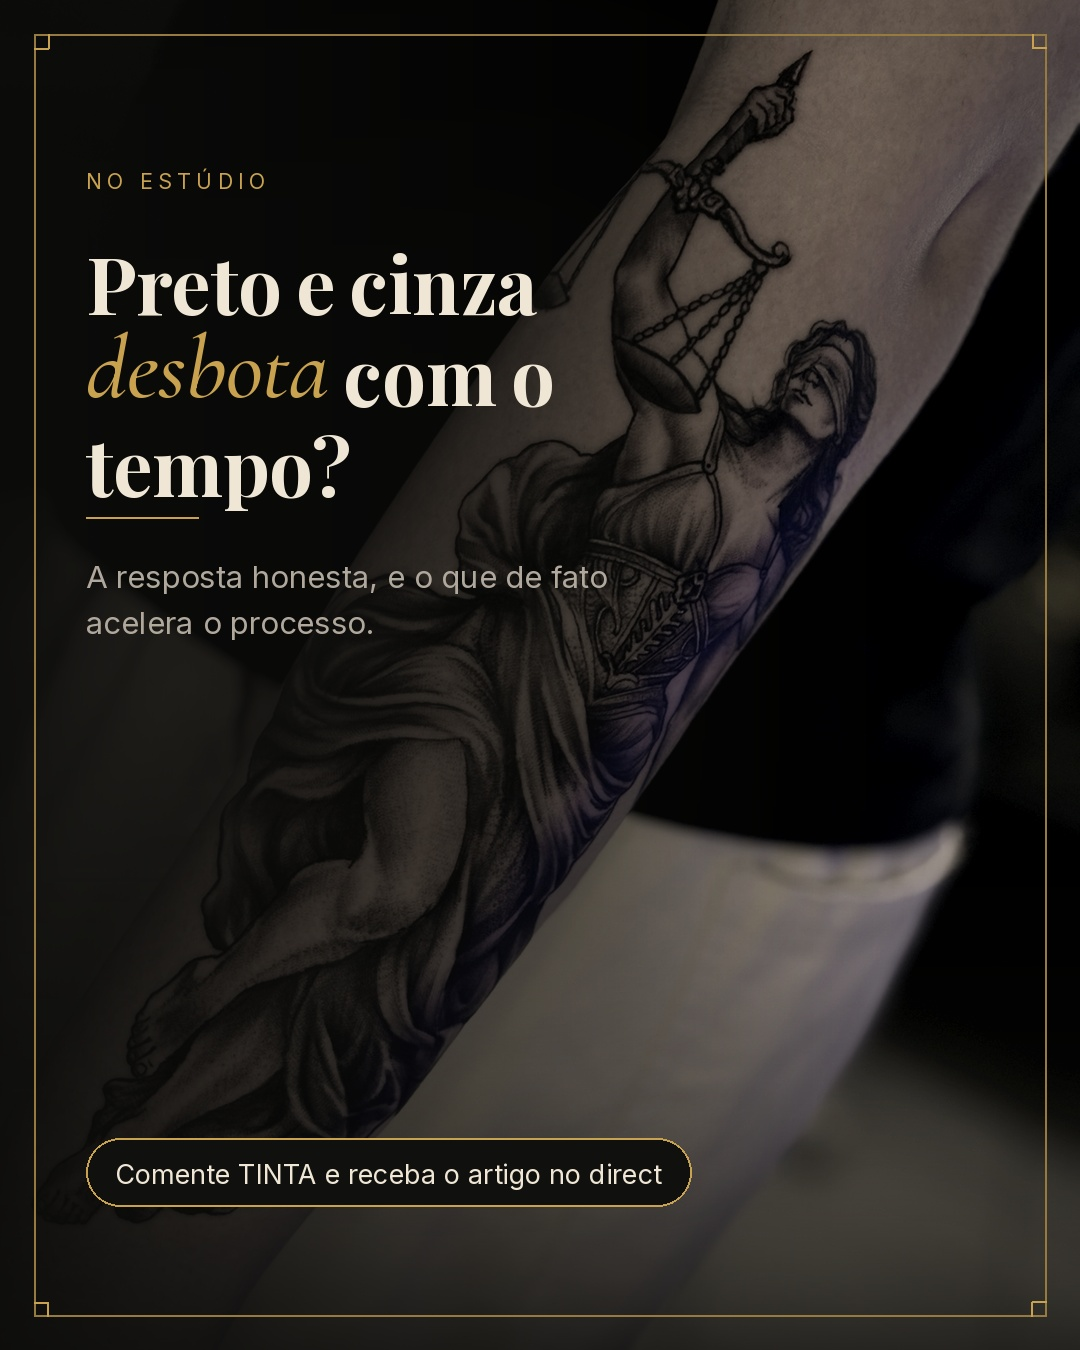
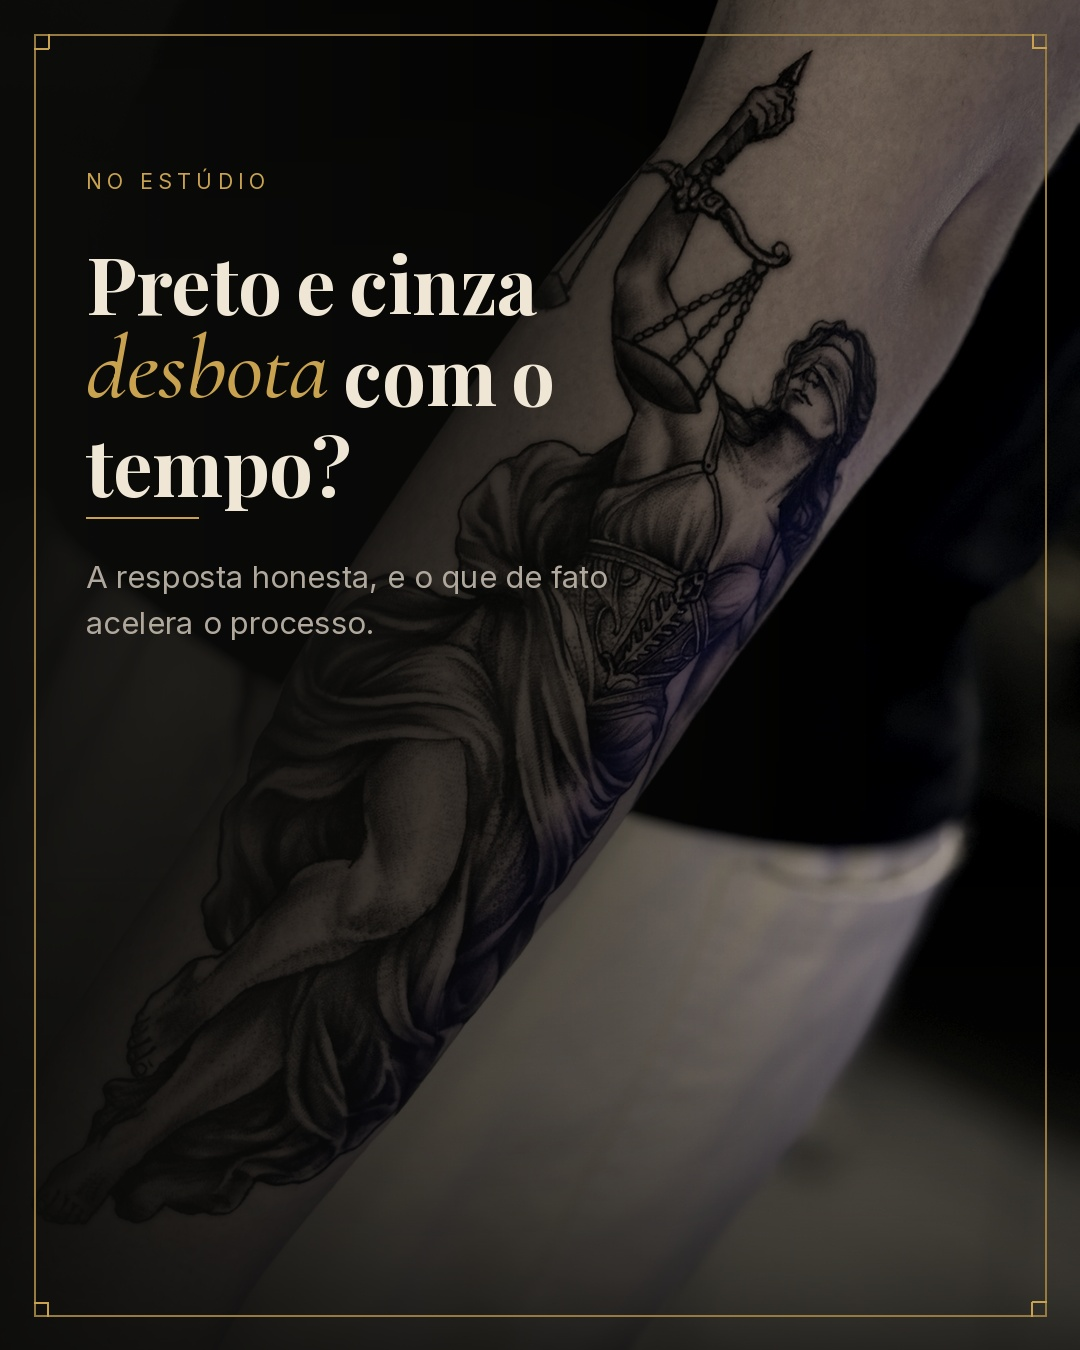
Tira o CTA dos slides e reescreve a legenda do carrossel 01
Pedido do Andre: a pilula de "Comente TINTA" sai das imagens; o CTA
passa a viver so na legenda. Os slides ficam limpos, com moldura,
etiqueta, titulo e texto.

Legenda reescrita como copy de publicacao, nao como resumo: abre com o
gancho que cabe antes do "mais", entrega a substancia do artigo em
quatro blocos curtos e fecha no comment-gate. Sem travessao, sem preco,
sem promessa de resultado, no tom de contexto/marca.md.

Claude-Session: https://claude.ai/code/session_01EdnrMUwgUveDxzwL5hwqmi

Changed region(s): [[0.1222, 0.84, 0.6417, 0.9022]]

diff --git a/carrosseis/01-preto-e-cinza-desbota/legenda.md b/carrosseis/01-preto-e-cinza-desbota/legenda.md
@@ -1,17 +1,21 @@
 # Legenda do post
 
-Existe uma parte dessa pergunta que quase ninguém responde com honestidade.
+> As duas primeiras linhas são o que aparece antes do "mais". Elas carregam o post.
 
-Toda tatuagem clareia. Preto e cinza inclusive. A diferença é que o preto é o pigmento mais resistente que existe: ele não escapa do tempo, mas atravessa melhor que qualquer outro.
+Toda tatuagem clareia. A sua também.
 
-O que clareia antes é o cinza mais claro. Cinza é preto diluído, e menos pigmento depositado na pele significa menos margem até a perda aparecer. Por isso luz e meio-tom pedem mais cuidado que o preto fechado.
+Isso não é defeito da tinta nem do tatuador. É o seu corpo fazendo o que ele faz. As células de defesa capturam e soltam pigmento o tempo todo, e a luz do sol quebra as partículas maiores em fragmentos que a pele consegue eliminar.
 
-E o que mais acelera tudo isso não é a tinta. É o sol.
+O preto resiste melhor que qualquer outro pigmento. Mas resistir não é escapar.
 
-No artigo completo eu explico o que está na sua mão e o que não adianta tentar.
+O que clareia primeiro é o cinza mais claro. Cinza é preto diluído: quanto menos pigmento ficou depositado na pele, menos margem existe até a perda ficar visível. Por isso luz e meio-tom pedem mais atenção que o preto fechado.
 
-**Comente TINTA e eu mando no seu direct.**
+E o que mais acelera tudo isso não está na tinta. Está no sol.
+
+Escrevi um guia completo com o que você controla, o que não adianta tentar e quando o retoque deixa de ser opcional.
+
+Comente TINTA e eu envio no seu direct.
 
 Peças da galeria: Têmis, retrato, leão e onça. Todas em preto e cinza.
 
-#realismopretoecinza #tatuagemrealista #pretoecinza #tatuagemsp #vilamatilde #zonalestesp
+#realismopretoecinza #tatuagemrealista #pretoecinza #tatuagemsp #tatuagemsaopaulo #vilamatilde #zonalestesp #tatuadorsp #blackandgrey
